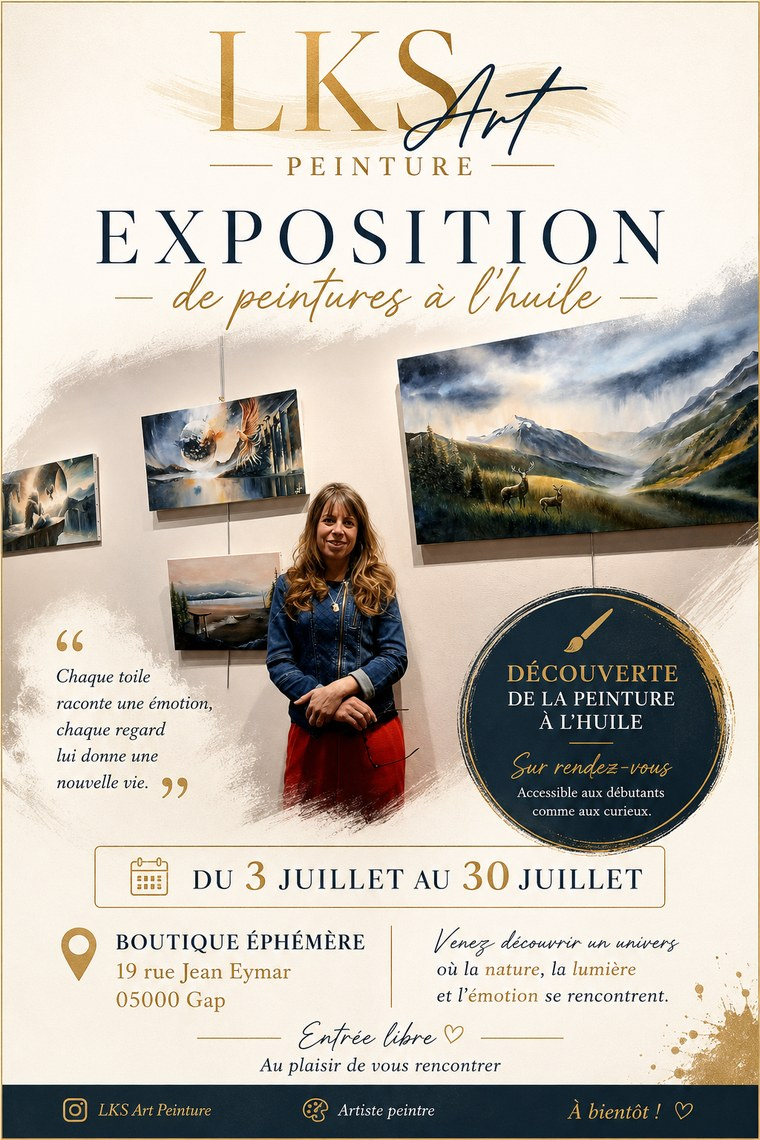
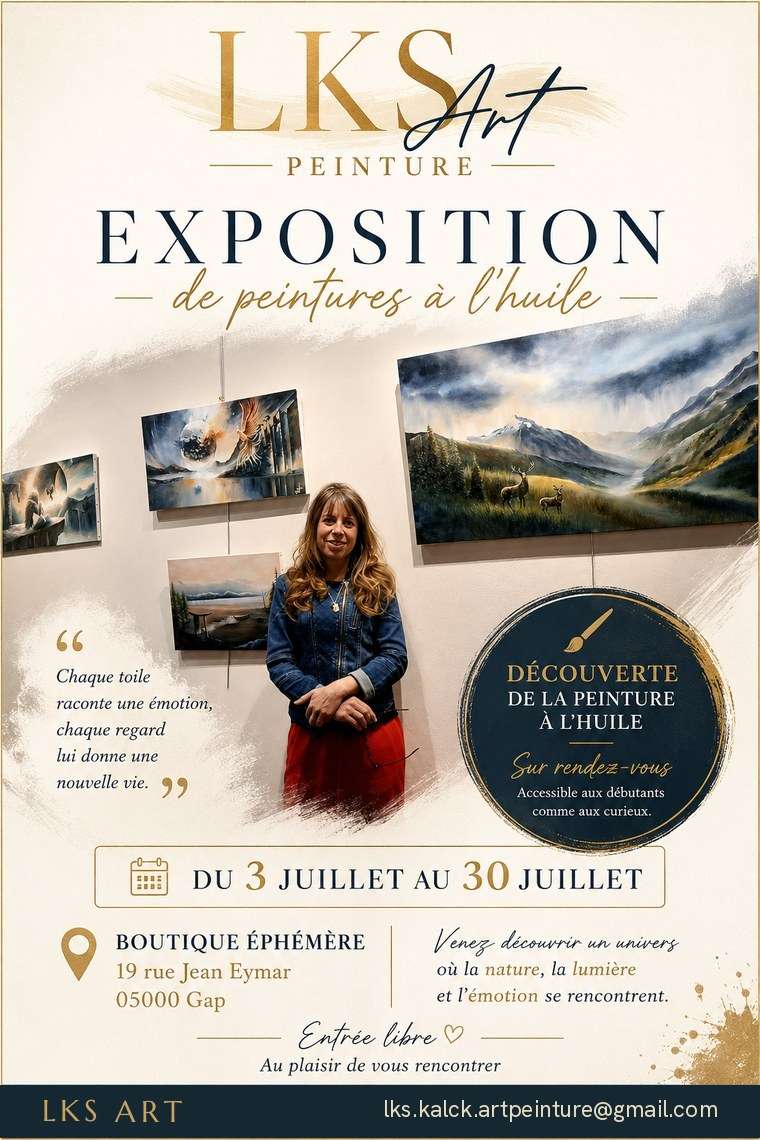
Annonces : retour a l'affiche, bandeau bas avec nom du site et e-mail
Reaffiche l'affiche de l'exposition dans l'annonce. Le bandeau bleu du
bas montre desormais le nom du site (LKS ART) et l'adresse e-mail, a la
place des reseaux sociaux, sans modifier la photo de l'affiche. Retablit
la largeur d'affichage d'origine (300px), force le rafraichissement de
l'image (v=2) et incremente les assets a v=18. Retire la photo devenue
inutile.

Claude-Session: https://claude.ai/code/session_01XkceoW5WPeGaCuyt6AF1wW

diff --git a/index.html b/index.html
@@ -11,7 +11,7 @@
 <link rel="preconnect" href="https://fonts.googleapis.com">
 <link rel="preconnect" href="https://fonts.gstatic.com" crossorigin>
 <link href="https://fonts.googleapis.com/css2?family=Marcellus&family=Hanken+Grotesk:wght@300;400;500;600;700&display=swap" rel="stylesheet">
-<link rel="stylesheet" href="assets/styles.css?v=17">
+<link rel="stylesheet" href="assets/styles.css?v=18">
 </head>
 <body>
 
@@ -99,8 +99,8 @@
         <div class="when">Du 3 au 30 juillet 2026</div>
         <div class="what">Exposition de peintures à l'huile, Gap</div>
         <div class="where">Boutique éphémère, 19 rue Jean Eymar, 05000 Gap. Entrée libre. Venez découvrir un univers où la nature, la lumière et l'émotion se rencontrent.</div>
-        <a class="tl__poster" href="images/expo-lea-juillet-2026.jpg" target="_blank" rel="noopener">
-          <img src="images/expo-lea-juillet-2026.jpg" alt="Léa Kalck devant ses toiles lors de l'exposition à Gap, du 3 au 30 juillet 2026" loading="lazy">
+        <a class="tl__poster" href="images/expo-juillet-2026.jpg?v=2" target="_blank" rel="noopener">
+          <img src="images/expo-juillet-2026.jpg?v=2" alt="Affiche de l'exposition LKS Art, du 3 au 30 juillet 2026 à Gap" loading="lazy">
         </a>
       </div>
       <div class="tl reveal">
@@ -277,8 +277,8 @@
 <!-- Supabase JS (CDN), service e-mail, puis configuration et logique du site -->
 <script src="https://cdn.jsdelivr.net/npm/@supabase/supabase-js@2"></script>
 <script src="https://cdn.jsdelivr.net/npm/@emailjs/browser@4/dist/email.min.js"></script>
-<script src="assets/config.js?v=17"></script>
-<script src="assets/store.js?v=17"></script>
-<script src="assets/app.js?v=17"></script>
+<script src="assets/config.js?v=18"></script>
+<script src="assets/store.js?v=18"></script>
+<script src="assets/app.js?v=18"></script>
 </body>
 </html>

diff --git a/assets/styles.css b/assets/styles.css
@@ -195,7 +195,7 @@ h2.title{
 .tl .what{font-family:var(--display); font-size:1.5rem; color:var(--cream); margin:.2em 0 .25em}
 .tl .where{color:var(--muted)}
 .tl.up::before{background:transparent; border:1px solid var(--gold)}
-.tl__poster{display:inline-block; margin-top:16px; max-width:440px; border:1px solid var(--line); transition:transform .4s, box-shadow .4s}
+.tl__poster{display:inline-block; margin-top:16px; max-width:300px; border:1px solid var(--line); transition:transform .4s, box-shadow .4s}
 .tl__poster img{width:100%; height:auto; display:block}
 .tl__poster:hover{transform:translateY(-3px); box-shadow:0 20px 40px -22px rgba(0,0,0,.9)}
 
